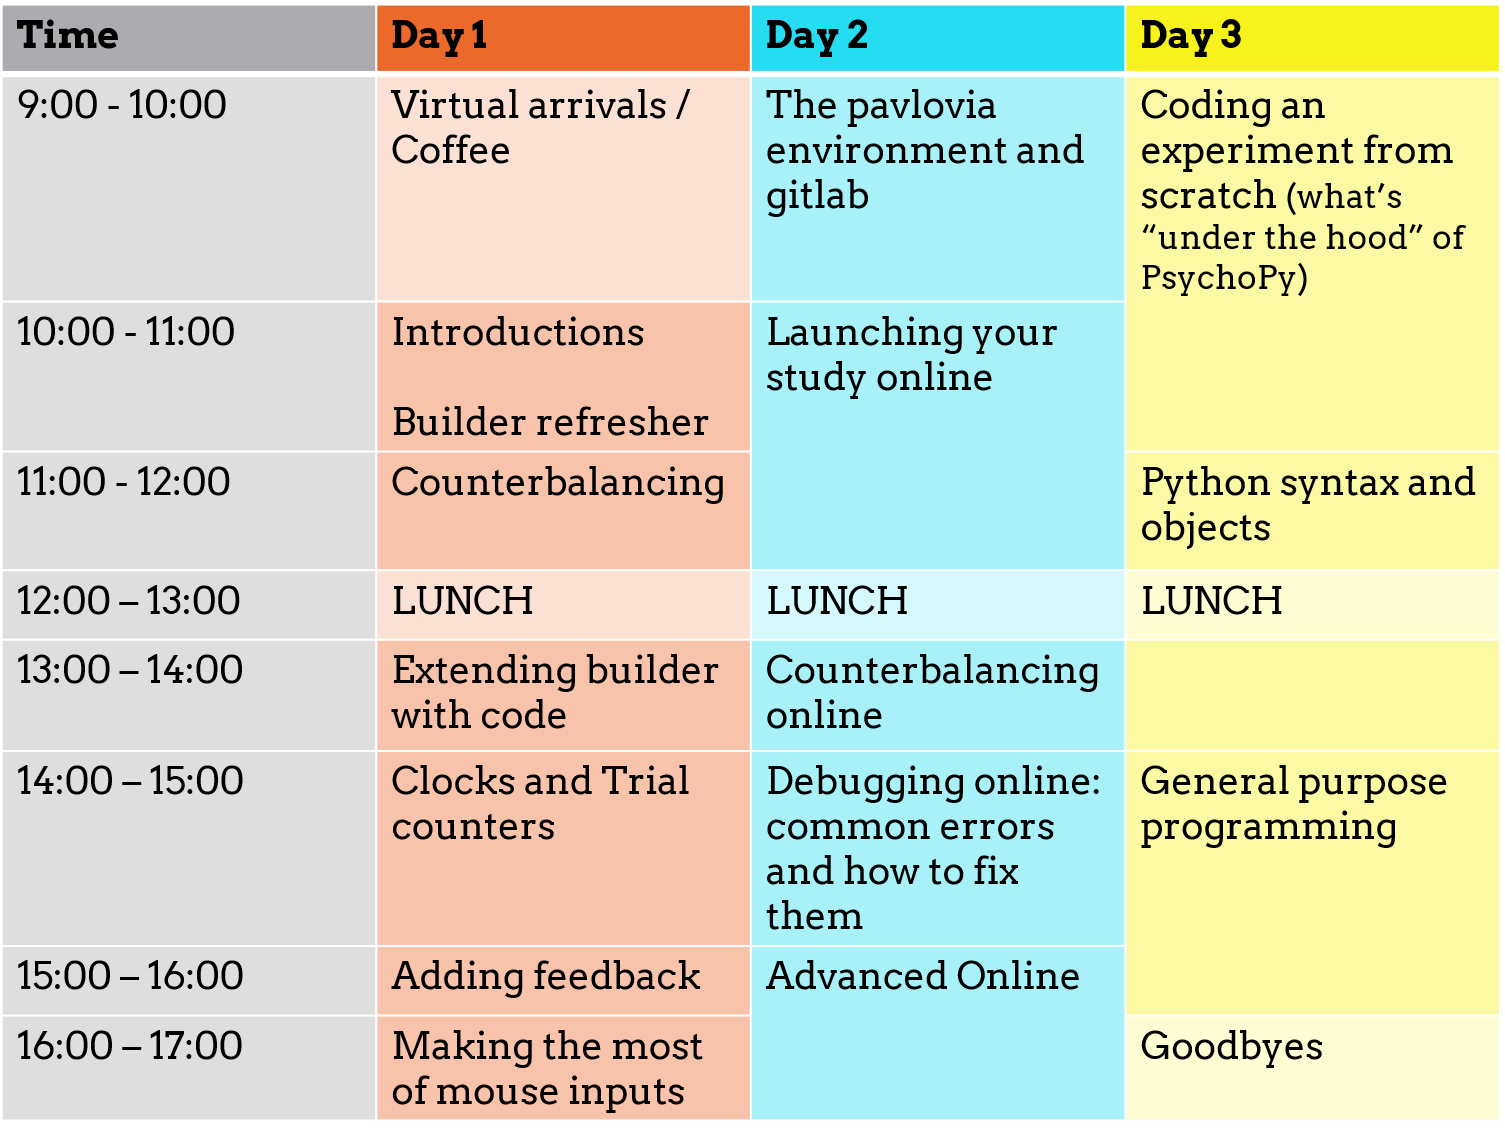
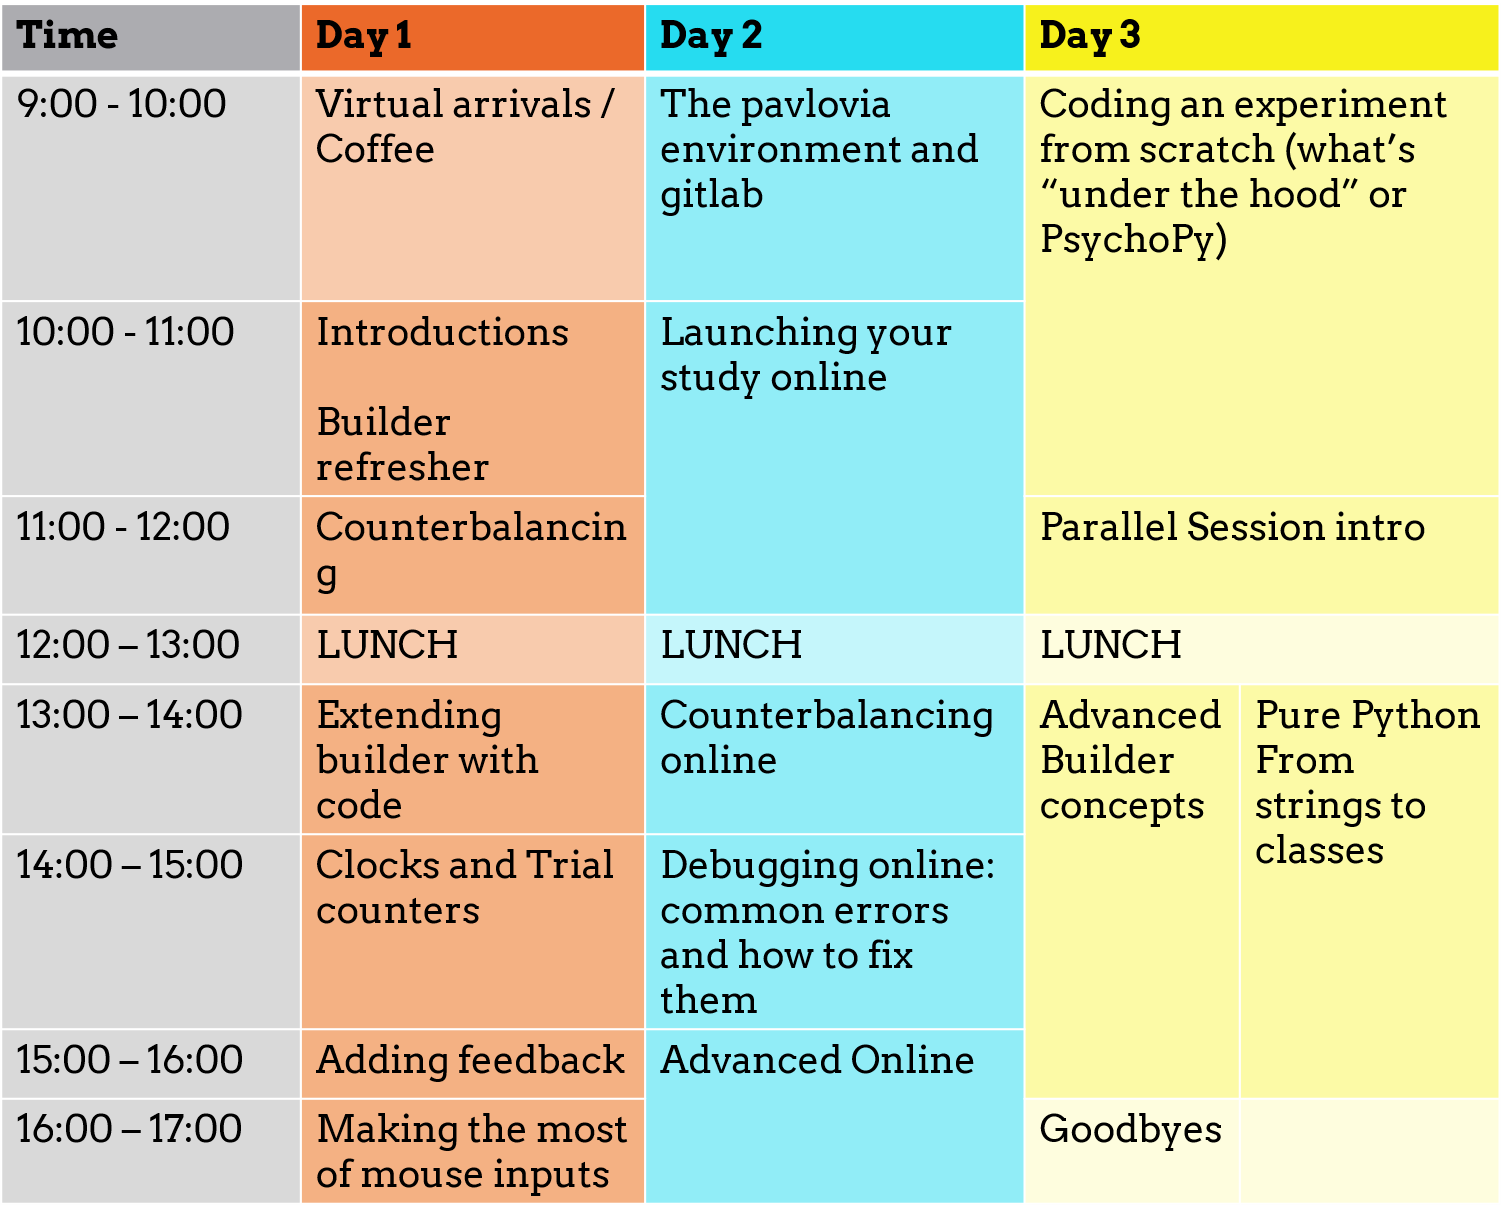
Update landing page

diff --git a/source/3days/index.rst b/source/3days/index.rst
@@ -12,24 +12,25 @@ Upcoming events
 +--------------------+-------------------+-----------------------------------------------------------------------------------------+
 
 About
-~~~~~~~~~~~~~~~~~~~~~~
+~~~~~~~~~~~~~~~~~~~~~~~~~~~~~~~~~~~~~~~~~~~~~~~~~~~~~~~~~~~~~~~~~~~~~~~~~~~~~~~~~~~~~~~~
 
-These sessions are designed to build confidence creating experiments and getting them online, as well as start learning the basics of python programming in general. We can be quite flexible with what we cover in these sessions but we will keep the themes quite broad to facilitate most attendees. Typically the timetable with appear as follows:
+These sessions are designed to build confidence creating experiments and getting them online, as well as start learning the basics of python programming. We can be quite flexible with what we cover in these sessions but we keep to some broad themes to facilitate most attendees. Typically the timetable with appear as follows:
 
 .. image:: /_static/timetable2.png
   :align: center
   :width: 600
 
+Note that on day 3 we are currently trialing parallel sessions; Advanced Builder and Pure Python. We hope that there will be a bit of something for everyone and several experience levels!
 
 What do I need to know in advance?
-~~~~~~~~~~~~~~~~~~~~~~
+~~~~~~~~~~~~~~~~~~~~~~~~~~~~~~~~~~~~~~~~~~~~~~~~~~~~~~~~~~~~~~~~~~~~~~~~~~~~~~~~~~~~~~~~
 
 The only base knowledge we will assume for this workshop can be learnt from this `15 minute video <https://www.youtube.com/watch?v=fIw1e1GqroQ>`_ .
 
 What technology and/or software will I need to make the most of the workshops?
-~~~~~~~~~~~~~~~~~~~~~~
+~~~~~~~~~~~~~~~~~~~~~~~~~~~~~~~~~~~~~~~~~~~~~~~~~~~~~~~~~~~~~~~~~~~~~~~~~~~~~~~~~~~~~~~~
 
-You will need to download a recent version of PsychoPy and register for a free Pavlovia account in order to follow along with the tasks we create in the workshop.
+You will need to `download a recent version of PsychoPy <https://www.psychopy.org/download.html>`_ and register for a free `pavlovia.org <https://pavlovia.org/>`_ account to follow along with the tasks we create in the workshop. If you have access to *two monitors* that can be beneficial, although not essential. 
 
 We run the workshops using a combination of zoom and slack. The slack channel is designed to encourage interaction throughout and provides a few benefits:
 
@@ -38,16 +39,50 @@ We run the workshops using a combination of zoom and slack. The slack channel is
 - The conversations are archived, so you can come back to the answers to yours and others questions later. 
 
 How can I purchase tickets?
-~~~~~~~~~~~~~~~~~~~~~~
+~~~~~~~~~~~~~~~~~~~~~~~~~~~~~~~~~~~~~~~~~~~~~~~~~~~~~~~~~~~~~~~~~~~~~~~~~~~~~~~~~~~~~~~~
 
 Tickets can be purchased from the `pavlovia store <https://pavlovia.org/store>`_
 
 Materials
-~~~~~~~~~~~~~~~~~~~~~~
+~~~~~~~~~~~~~~~~~~~~~~~~~~~~~~~~~~~~~~~~~~~~~~~~~~~~~~~~~~~~~~~~~~~~~~~~~~~~~~~~~~~~~~~~
 
-The slides and materials for this workshop can be accessed `Here <materials.html>`_
+All of our materials are opnly available in web page (links below) or and `html slide <https://workshops.psychopy.org/slides/3days>`_ format.
+
+You can also download and unzip  `a range of premade demos <https://workshops.psychopy.org/psychopy_examples.zip>`_ that we work from. 
+
+Day 1
 
 .. toctree::
-    :maxdepth: 1
-    :hidden:
-    Creating better Experiments 3 day workshop <slides/3days/materials>
+  :maxdepth: 1
+
+  10introductions
+  buildingBetter
+  general/builderAndCode
+  addingFeedback
+  23mouseInputs
+
+Day 2
+
+.. toctree::
+  :maxdepth: 1
+
+  pavlovia
+  pavloviaLaunch
+  debuggingOnline
+  advancedOnline
+
+Day 3
+
+.. toctree::
+  :maxdepth: 1
+
+  coding/index
+  coding/improvements
+  coding/syntax/index
+
+  general/pythonForGeneral
+
+
+Accessibility
+~~~~~~~~~~~~~~~~~~~~~~~~~~~~~~~~~~~~~~~~~~~~~~~~~~~~~~~~~~~~~~~~~~~~~~~~~~~~~~~~~~~~~~~~
+We are aware that online teaching via zoom can raise accessibility issues and we want to ensure everyone gets the training they need. If you have special requirements or want to arrange one-to-one training please contact us directly at workshops@opensciencetools.org 

diff --git a/source/index.rst b/source/index.rst
@@ -17,7 +17,7 @@ Upcoming events
 +=================+==============================================+
 |3-day            | `Upcoming events <3days/index.html>`_        |
 +-----------------+----------------------------------------------+
-|3-hour           | `Upcoming events <3hrs/index.html>`_         |
+|3-hour           | TBC                                          |
 +-----------------+----------------------------------------------+
 
 About
